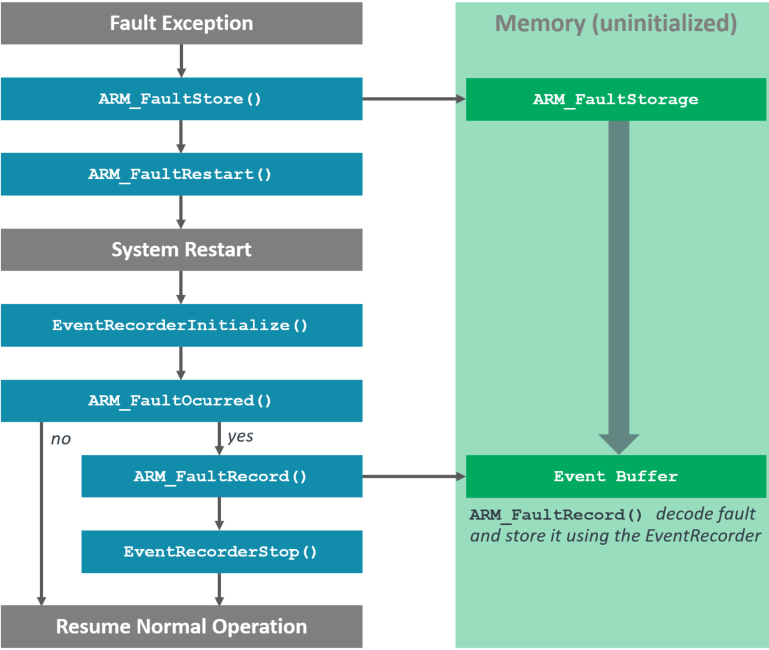
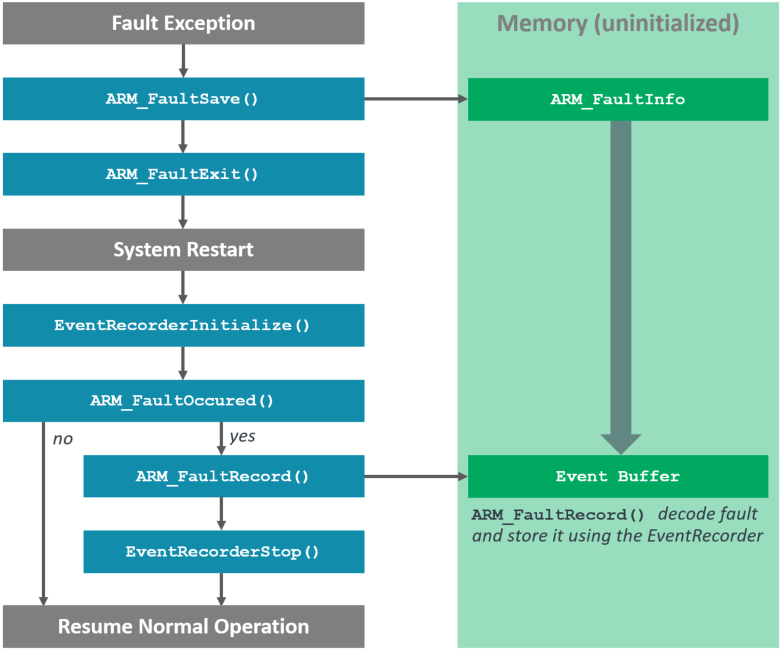
Added documentation about Fault Exception Analysis

diff --git a/Doxygen/src/main.md b/Doxygen/src/main.md
@@ -2,7 +2,7 @@
 
 **CMSIS-View** equips software developers with methodologies, software components and utilities that provide visibility into internal operation of embedded applications and software components.
 
-With CMSIS-View, developers can collect time-accurate event-based information as well as see the real-time program execution status. The data can be observed in real-time in an IDE or can be saved as a log file during program execution. It allows to analyze  execution flows, debug potential issues, and measure execution times.
+With the software components of CMSIS-View, developers can collect time-accurate event-based information, display program execution status, and analyze fault exceptions. The data can be observed in real-time in an IDE or can be saved as a log file during program execution. It allows to analyze execution flows, debug potential issues, and measure execution times.
 
 A **Software Component Viewer Description** (*.SCVD) file in \ref SCVD_Format (XML) defines the content that is displayed in the **Component Viewer** and **Event Recorder**.
 
@@ -11,9 +11,11 @@ code so that you can get statistical data on the time spent in a loop or on the 
 (<a href="https://developer.arm.com/Tools%20and%20Software/ULINKplus">ULINKplus</a> required).
 
 Key elements of CMSIS-View are:
+
 - \ref er_use "Event Recorder" - is an embedded software component that provides an [API (function calls)](modules.html) for event annotations in the code.
 - \ref SCVD_Format "SCVD file specification" defines the content that is displayed.
 - \ref evntlst, a command line tool for processing Event Recorder log files.
+- \ref fault analysis with infrastructure and functions to store, record, and analyze exception fault information.
 
 # Content {#content}
 
@@ -25,6 +27,7 @@ This user's guide contains the following chapters:
 - \subpage ev_stat : describes how to use Event Statistics to create statistical data on code execution and power consumption.
 - \subpage evntlst : shows the usage of `eventlist`, a command line tool for processing Event Recorder records stored to a log file.
 - \subpage cmp_viewer : explains the use of Component Viewer.
-- \subpage SCVD_Format : describes the format of the Software Component View Description (*.SCVD) files that define the output of he MDK debugger views.
+- \subpage SCVD_Format : describes the format of the Software Component View Description (*.SCVD) files that define the output of the MDK debugger views.
+- \subpage fault : infrastructure and functions to store, record, and analyze the Cortex-M Exception Fault information.
 - \subpage ExampleProjects are available demonstrating standard use cases.
-- **[API References](modules.html)** describes the API and the functions of the **Event Recorder** in details.
+- **[API References](modules.html)** describes the API and the functions of the **Event Recorder** and **Fault components** in details.

diff --git a/Doxygen/src/Fault.md b/Doxygen/src/Fault.md
@@ -1,0 +1,11 @@
+# Exception Fault Analysis {#fault}
+
+## Overview {#about_fault}
+
+The software components under **CMSIS-View:Fault** provide infrastructure and [API (function calls)](modules.html) to store, record, and analyze the Cortex-M Exception Fault information.
+The Arm Cortex-M processors raise an exception fault on critical system failures such as illegal memory write or read, access to an disabled peripheral, execution of an invalid instruction, division by zero.
+With the component **CMSIS-View:Fault:Storage** an exception fault can be saved for later analysis.  The component **CMSIS-View:Fault:Record** decodes an saved exception fault and records this information using the **Event Recorder**.
+
+A typical execution flow is shown in the diagram below.
+
+![Exception Fault Analysis](./images/ArmFault.png "Exception Fault Analysis")

diff --git a/Doxygen/src/eventlist.md b/Doxygen/src/eventlist.md
@@ -2,7 +2,7 @@
 
 ## Overview {#about_evntlst}
 
-Eventlist is a command line tool for processing Event Recorder data stored to a log file. 
+Eventlist is a command line tool for processing Event Recorder data stored to a log file.
 
 The utility is a Go application that is available for all major operating systems and is run from the command line. Refer to the
 <a href="https://github.com/ARM-software/CMSIS-View/tree/main/tools/eventlist">source code</a> for more information including the invocation details.
